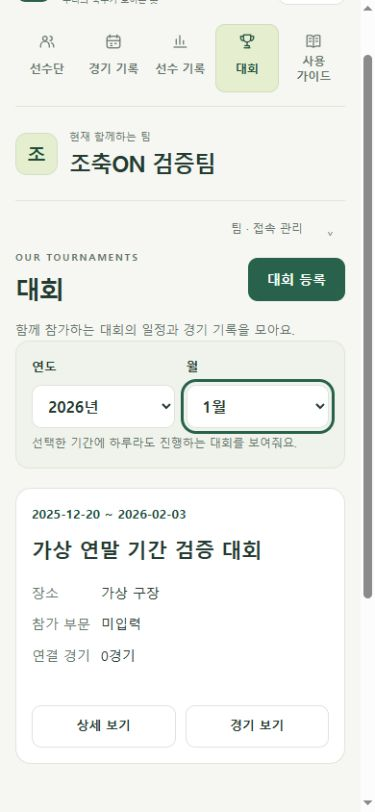
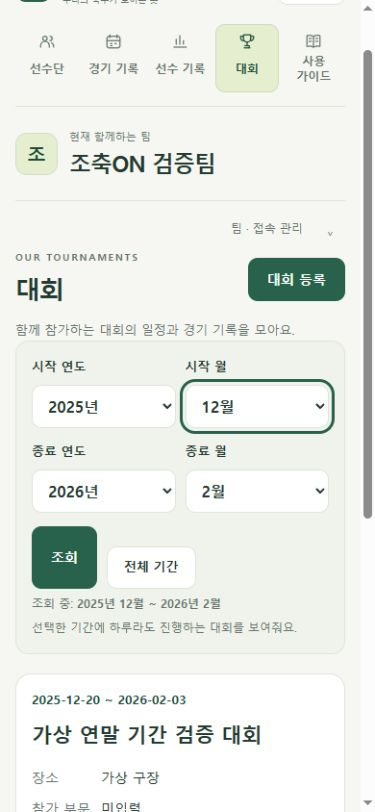
docs: explain month ranges and external match concessions [skip ci]

diff --git a/docs/date-filters-and-table-sorting.md b/docs/date-filters-and-table-sorting.md
@@ -1,4 +1,4 @@
-# 연도·월 조회와 선수 기록 표 정렬
+# 연월 범위 조회와 선수 기록 요약·정렬
 
 2026-10-15 로컬 개발 명세. 운영 앱 `b9d8738`과 가이드 1.1에는 아직 반영하지 않는다.
 
@@ -6,21 +6,32 @@
 
 | 화면 | 날짜 기준 | 기본값 |
 | --- | --- | --- |
-| 경기 기록 | 경기 날짜가 선택한 연도·월 안에 있음 | 전체 연도·전체 월 |
-| 선수 기록·개인 상세 | 실제 경기 날짜로 범위를 정한 뒤 해당 경기의 골·도움·출전·출석 합산 | 한국 시간 올해·전체 월 |
-| 대회 | 대회 시작일~종료일이 선택한 연도·월과 겹침 | 전체 연도·전체 월 |
+| 경기 기록 | 경기 날짜가 시작월 첫날~종료월 마지막 날 안에 있음 | 전체 기간 |
+| 선수 기록·개인 상세 | 같은 기간의 실제 경기 골·도움·출전·출석 합산 | 한국 시간 올해 1월~12월 |
+| 대회 | 대회 시작일~종료일이 조회 기간과 겹침 | 전체 기간 |
 
-- 연도에는 현재 연도와 조회 가능한 자료의 연도를 제공한다. 선택 중인 연도도 유지한다. 대회는 시작~종료 사이에 걸친 연도를 포함한다.
-- 월은 **전체 월 / 1월~12월**이다. 경기·대회 목록에서 전체 연도를 고르면 월도 전체로 돌아가고 월 선택을 잠근다. 먼저 연도를 고르면 월을 선택할 수 있다.
-- 선수 통계는 기존 연간 집계에 월을 더해 좁힌다. 월을 전체로 바꾸면 그해 합계로 돌아간다. 미래 경기 제외, 완료 범위·회원/용병·리그/대회 조건은 그대로 함께 적용한다.
+- 사용자의 정정에 따라 단일 연도/월 UI를 **시작 연도·월 ~ 종료 연도·월 + 조회**로 바꾼다. 예: 2026년3월~6월은 3월1일~6월30일 전체, 2025년12월~2026년2월은 연도를 넘어 합산한다. 같은 시작/종료월은 한 달 조회다.
+- 연도 선택에는 현재·자료·선택 중인 연도와 그 사이 연도를 제공한다. 값만 바꿀 때는 기존 조회를 유지하고 **조회**를 누르면 적용한다. 미완성/역순 입력은 안내하고 이전 결과를 보존한다.
+- 경기·대회는 **전체 기간**, 선수 기록은 **올해** 버튼으로 초기화한다. 선수 기록의 미래 경기 제외, 완료 범위·회원/용병·리그/대회 조건은 함께 유지한다.
 - 대회 기간이 9월20일~10월10일이면 9월과 10월 모두 조회된다. 대회에 연결된 선수 기록은 대회 시작월 대신 실제 경기 날짜로 집계한다.
 - 목록의 현재 페이지에만 적용하지 않고 서버에서 기간을 적용한 뒤 페이지를 나눈다. 조건을 바꾸면 첫 페이지로 돌아간다.
 - 자료가 없으면 빈 결과를 보여 주되 기간 선택은 유지한다. 연도 목록을 불러오지 못하면 오류·재시도를 안내하며 현재/선택 연도는 유지한다.
 - 날짜 필터는 조회 조건이며 저장된 경기 날짜·대회 기간이나 선수 기록을 수정하지 않는다.
 
-스토리보드: **경기 기록 / 선수 기록 / 대회 → 연도 선택 → 전체 월 또는 특정 월 → 기존 경기 구분과 함께 조회**. 선수 상세에서도 같은 기간을 바꿀 수 있고 원본 경기·목록 왕복 시 선택을 유지한다.
+스토리보드: **경기 기록 / 선수 기록 / 대회 → 시작 연월 → 종료 연월 → 조회 → 기존 경기 구분과 함께 결과 확인**. 선수 상세에서도 같은 기간을 바꿀 수 있고 원본 경기·목록 왕복 시 적용한 선택을 유지한다.
 
 [선수 기록 모바일 화면](diagrams/season-period-filter-mobile.png) · [대회 모바일 화면](diagrams/tournament-period-filter-mobile.png). 가상 팀·선수·대회만 사용한 로컬 확인 화면이다.
+
+## 선수 기록 상단 요약
+
+사용자가 확정한 기준은 **집계 경기 / 누적 득점 / 누적 실점**이다. 합산 출전 쿼터 카드는 제거하되 선수 표와 개인 상세의 출전 쿼터는 유지한다.
+
+- 집계 경기: 선택한 기간·기록 상태·경기 구분의 전체 경기 수와 **매칭 N회 · 자체전 N회**를 표시한다. 대회 경기도 매칭(외부 팀과의 경기)에 포함한다.
+- 누적 득점: 선택된 회원/용병 범위의 선수 득점을 기존 방식으로 합산한다. 매칭과 자체전을 모두 포함하며 리그/대회·경기 유형 필터로 좁힌 범위 안에서 계산한다. 팀 스코어로 변경하지 않는다.
+- 누적 실점: 같은 기간·경기 조건의 외부 경기 `scoreAgainst`만 합산한다. **매칭만 집계**를 카드에 명시한다. 선수 행 수·참석/출전 수에 의해 중복 계산하지 않으며 회원/용병 표시 선택은 팀 실점에 영향을 주지 않는다.
+- 자체전은 실점에서 제외한다. 외부 경기의 실점 미입력도 0실점으로 취급하지 않고 제외 횟수를 안내한다. 유효한 외부 스코어가 없으면 `—`, 실제 0실점이면 `0`이다.
+
+[모바일 집계 카드 확인](diagrams/season-summary-mobile.png). 가상 자료이며 조회 범위에 따라 횟수와 합계가 함께 바뀐다.
 
 ## 선수 기록 표 정렬
 
@@ -36,8 +47,8 @@
 
 ## API·가이드·검증
 
-목록 API의 `year`/`month`는 선택이다. 경기·대회 목록의 월만 지정한 요청, 1~12 밖의 월, 1000~9999 밖의 연도는 거부한다. 통계는 기존 year 생략 시 현재연도 규칙을 유지한다. 기간·팀 권한·다른 조회 조건을 동시에 적용한다. DB 마이그레이션은 필요하지 않다.
+새 UI는 `startMonth=2026-03&endMonth=2026-06`처럼 YYYY-MM 쌍을 보낸다. 1000-01~9999-12 범위, 양끝 포함이며 누락·형식 오류·역순·기존 year/month와 혼합한 요청은 거부한다. 둘 다 생략하면 기존 year/month 호환 계약을 유지한다. 기간·팀 권한·다른 조회 조건을 동시에 적용한다. DB 마이그레이션은 필요하지 않다.
 
 회원·운영진 모두 기간 필터·표 정렬 사용법의 가이드 갱신 대상이다. [가이드 대기 목록](guides/maintenance.json)에 기록하고 기능 배포 때 공통 원고·HTML·PDF·앱 안내를 함께 갱신한다. 이번에는 개발 문서와 그림만 갱신한다.
 
-검증은 월말·연말·윤년 경계, 대회 기간 걸침, 목록과 개인 합계 일치, 월 해제, 빈 결과, 팀 격리, 정렬 동률·미지정·쿼터당 분모를 포함한다. 실제 수행 결과와 미검증 범위는 [검증 기록](verification.md)을 따른다.
+검증은 월말·연말·윤년 경계, 대회 기간 걸침, 목록과 개인 합계 일치, 기간 초기화, 빈 결과, 팀 격리, 정렬 동률·미지정·쿼터당 분모와 자체전 실점 제외를 포함한다. 실제 수행 결과와 미검증 범위는 [검증 기록](verification.md)을 따른다.

diff --git a/docs/verification.md b/docs/verification.md
@@ -1,5 +1,15 @@
 # 조축ON 검증 기록
 
+## 시작·종료 연월 범위와 매칭·자체전 요약 (2026-10-15 · 로컬)
+
+- 경기 기록·선수 기록 목록/개인 상세·대회를 시작 연월~종료 연월로 조회하도록 바꿨다. 선택 후 **조회**로 적용하고 미완성·역순이면 기존 결과를 유지한다. 집계 경기 아래 매칭/자체전 횟수, 기존 선수 득점 합산, 외부 경기만의 누적 실점을 표시한다. 실점 미입력과 자체전은 제외하며 실제 0과 집계 불가 `—`를 구분한다.
+- 프론트 **207/207**, Java 단위/API **421/421**, 격리된 native MySQL 8.4.11 기간·요약 통합 **5/5** 통과. 실패·오류·건너뜀 0, TypeScript/Vite 및 bootJar 성공을 로그·XML·JAR 해시로 확인했다. JS 541.22kB 번들 경고는 남아 있다. 최신 전체 Docker/Testcontainers 회귀와 GitHub CI는 실행하지 않았다.
+- MySQL 통합은 `work/calendar-period-qa` 복제본의 연결부만 바꿔 실행별 새 스키마에서 수행했다. 시작/종료월 경계·연도 넘김·윤년·기간 적용 후 DB 페이지·대회 기간 겹침·팀 격리·미래 경기 제외·목록과 개인 합계 일치·구 year/month 호환을 검증했다. 외부 경기 0실점/미입력/자체전 제외, 선수 행 조인으로 인한 중복 합산 방지, 전체 경기=외부+자체전도 검증했다.
+- 가상 브라우저에서 2026년9~10월은 **3경기(매칭2·자체전1), 8골, 실점3골**, 2025년9월~2026년10월은 **4경기(매칭2·자체전2), 9골, 실점3골**이었다. 2026년9월 자체전만 조회하면 1경기/1골/실점 `—`, 3~6월은 0경기/0골/실점 `—`다. 기간 선택만으로 결과가 바뀌지 않으며 역순 조회에도 앞선 결과를 유지했다.
+- 개인 상세의 9~10월 3골·1도움·6쿼터·3경기와 목록 합계가 같고 목록 복귀 시 기간이 유지됐다. 경기 목록의 9월 경기 열기/닫기 후 기간 유지, 연말~연초 대회의 기간 겹침·3~6월 빈 결과·전체 기간 초기화를 확인했다. 실제 선수·경기·대회는 시험 수정하지 않았다.
+- 320px 선수 기록·대회 페이지 가로 넘침 없음, 390px 기간 선택과 요약 카드 가독성을 확인했다. 실제 iPhone Safari·터치·부하 검사는 하지 않았다. [기간 선택](diagrams/season-period-filter-mobile.png) · [집계 카드](diagrams/season-summary-mobile.png) · [대회 기간](diagrams/tournament-period-filter-mobile.png).
+- 흐름도 2개·생성 소스·개발 문서와 회원/운영진 가이드 갱신 대기를 함께 정리했다. 운영 앱 `b9d8738`/DB V23/가이드1.1은 유지하며 이번 변경에 추가 DB 마이그레이션은 없다. 앱 소스 push·운영 배포는 하지 않고 문서·그림만 별도로 GitHub에 반영한다. [명세](date-filters-and-table-sorting.md).
+
 ## 연도·월 조회와 표 제목 정렬 (2026-10-15 · 로컬)
 
 - 경기 기록·선수 기록 목록/개인 상세·대회에 연도/월을 추가했다. 경기 날짜 기준과 대회 기간 겹침 기준을 구분하고 DB에서 필터 후 페이지를 나눈다. 표의 등번호·선수를 분리하고 전체 9개 열 제목에 양방향 정렬·현재 방향·키보드 조작을 추가했다.

diff --git a/docs/player-season-detail.md b/docs/player-season-detail.md
@@ -6,7 +6,7 @@
 
 시즌 합계만으로는 어느 경기의 기록인지 대조하기 어렵다. 선수 기록에서 이름·등번호를 눌러 개인 합계와 경기별 기록을 확인하고 원본 경기의 투표·출석·스쿼드·결과를 읽는다. 회원과 감독·코치 모두 같은 조회 흐름을 사용한다.
 
-- 시즌 목록에서 선택한 연도·월·경기 유형·리그/대회·기록 범위·용병 포함 조건을 상세에도 그대로 적용한다. 상세 상단에서도 연도·월·리그·대회·특정 대회를 바로 바꿀 수 있고 목록으로 돌아가도 새 조건을 유지한다. 리그는 자체전을 포함한다. 월을 전체로 바꾸면 그해 합계로 돌아간다.
+- 시즌 목록에서 선택한 시작 연월~종료 연월·경기 유형·리그/대회·기록 범위·용병 포함 조건을 상세에도 그대로 적용한다. 상세에서도 기간을 바꾸고 조회할 수 있으며 목록으로 돌아가도 적용한 조건을 유지한다. 리그는 자체전을 포함한다. 올해 버튼은 올해1월~12월로 돌아간다.
 - 개인 요약은 해당 범위 전체의 득점·도움·출전 경기·출전 쿼터·실제 참석이다. 현재 상세 페이지의 합계가 아니다.
 - 상세에는 참석/지각 또는 실제 출전이 있는 경기만 표시한다. 참석했지만 뛰지 않은 경기는 출전 0으로 구분한다.
 - 경기별 카드는 날짜·시간·상대/자체전·스코어·작성 상태와 해당 선수의 실제 득점·도움·쿼터·출석을 보여 준다. 상단 누적/1~4쿼터당 선택과 관계없이 원래 득점·도움을 표시하며 프리킥·페널티킥은 각 값이 양수일 때만 표시한다. 경기 날짜 내림차순, 같은 날짜는 등록 ID 내림차순으로 10개씩 조회한다. 조건 변경 시 첫 페이지로 돌아간다.
@@ -16,7 +16,7 @@
 ## 화면 흐름
 
 1. **선수 기록**에서 원하는 범위를 고른다. 표의 열 제목은 양방향 정렬, 본문의 선수 이름·등번호는 개인 상세다.
-2. 상세 상단에서 연도·월·경기 구분을 변경하거나 누적/1~4쿼터당 보기를 선택한다. 경기별 실제 카드를 읽고 필요하면 이전/다음 페이지를 선택한다.
+2. 상세 상단에서 시작 연월·종료 연월을 고른 뒤 조회하거나 경기 구분·누적/1~4쿼터당 보기를 선택한다. 경기별 실제 카드를 읽고 필요하면 이전/다음 페이지를 선택한다.
 3. 카드의 **원본 경기 보기**를 눌러 저장된 01~04 내용을 확인한다.
 4. **선수 기록으로**를 눌러 같은 선수의 상세로 돌아간다.
 5. **시즌 목록으로**를 눌러 원래 목록으로 돌아간다.

diff --git a/docs/api.md b/docs/api.md
@@ -1,5 +1,15 @@
 # 현재 API
 
+## 연월 범위와 경기 유형별 요약 (2026-10-15 후속 · 로컬)
+
+경기·대회 목록과 선수 기록 목록/개인 상세는 `startMonth=2026-03&endMonth=2026-06`처럼 YYYY-MM 쌍을 받는다. 시작월 첫날부터 종료월 마지막 날까지 포함한다. 둘 다 생략하면 아래의 기존 year/month 규칙이 유지되고, 한쪽만 지정·형식 오류·역순·year/month와 혼합하면 400이다. 허용 범위는 1000-01~9999-12이며 연도 걸침·같은 달 조회를 지원한다. 대회는 기간 겹침, 경기는 경기 날짜 기준으로 필터 후 DB 페이징한다. 선수 통계의 오늘 이후 경기 제외와 기간에 무관한 availableYears를 유지한다.
+
+통계 목록과 개인 상세 응답에 `startMonth`, `endMonth`를 추가한다(기존 방식이면 null). 범위 조회에서 기존 `year`는 시작 연도이며 조회 기간을 제한하는 추가 조건이 아니다. 새 화면은 기존 year/month와 범위를 동시에 보내지 않는다.
+
+통계 목록의 `externalMatchCount`/`internalMatchCount`는 각각 매칭/자체전 횟수이고 합은 matchCount다. `goalsAgainst`는 외부 경기 scoreAgainst의 합이며 집계 가능한 값이 없으면 null이다. `scoredExternalMatchCount`와 `missingExternalScoreCount`는 입력/미입력 외부 경기 수이고 합은 externalMatchCount다. `excludedInternalMatchCount`는 internalMatchCount와 같다. 이 필드들은 같은 기간·팀·경기 유형·완료 상태·대회 조건으로 경기마다 한 번만 계산한다. includeGuests는 선수 득점 범위에만 영향을 주고 팀 실점에는 영향이 없다. 개인 상세에 팀 실점 필드는 넣지 않는다.
+
+[현재 화면 기준과 인수 조건](date-filters-and-table-sorting.md). 아래 단일 연도/월 계약은 구버전 요청 호환용으로 남긴다.
+
 ## 연도·월 조회 (2026-10-15 · 로컬 개발 / 운영 미반영)
 
 - `GET /api/v1/matches?year=2026&month=10`: 경기 날짜로 필터링한 뒤 기존 페이지·경기 구분을 적용한다. `year` 생략은 전체 기간, `month` 생략은 해당 연도 전체다.

diff --git a/docs/player-input-and-stat-details.md b/docs/player-input-and-stat-details.md
@@ -42,7 +42,7 @@
 - N쿼터당 = 선택 범위의 스탯 합계 ÷ 실제 출전 쿼터 합계 × N. 시즌 목록과 개인 상단 합계의 총 골·도움·FK·PK에 적용한다.
 - 예: 2.5쿼터 동안 2골·1도움이면 1쿼터당 0.80골·0.40도움, 4쿼터당 3.20골·1.60도움이다. 경기별 평균을 다시 평균 내지 않는다.
 - 출전 쿼터가 0이면 평균을 `—`로 표시한다. 소수점 둘째 자리 표시는 마지막에만 반올림하고 정렬은 반올림 전 값으로 계산한다. 출전 경기·출전 쿼터·출석은 계속 누적값이다.
-- 연도·월과 리그/대회/특정 대회, 완료 범위, 용병 조건을 먼저 적용하고 계산한다. 전체 월이면 해당 연도 전체다.
+- 시작 연월~종료 연월과 리그/대회/특정 대회, 완료 범위, 용병 조건을 먼저 적용하고 계산한다. 범위는 시작월 첫날부터 종료월 마지막 날까지이며 연도를 넘길 수 있다.
 - 목록과 개인 상세에서 같은 연도·경기 구분을 직접 변경할 수 있다. 자체전은 리그에 포함하고 기본 합산에도 포함한다. 경기별 배지는 자체전으로 유지한다. 조건 변경 시 상세 첫 페이지부터 조회하고 원본·목록 왕복에도 최신 조건을 유지한다.
 - **개인 상세 아래 경기별 기록은 보기 선택과 관계없이 해당 경기의 실제 득점·도움 정수만 표시한다.** 프리킥·페널티킥은 각각 1골 이상일 때만 전체 이름과 골 수를 덧붙인다. 0 또는 예전 응답의 누락값은 해당 세부 문구를 표시하지 않는다. 실제 출전 쿼터·출석·원본 연결은 유지한다.
 - **4쿼터를 실제 1경기 또는 프로 90분으로 환산하지 않는다.** 쿼터 길이도 추가 저장하지 않는다. 프로 선수 비교는 나중에 별도 기능으로 설계한다.

diff --git a/docs/tournaments-and-completion-review.md b/docs/tournaments-and-completion-review.md
@@ -15,7 +15,7 @@
 
 ## 리그·대회 필터와 연도별 대회 등록 (2026-10-15 후속)
 
-- 후속 [연도·월 조회](date-filters-and-table-sorting.md): 경기 기록·선수 기록은 실제 경기 날짜로, 대회 목록은 시작~종료 기간의 겹침으로 조회한다. 예를 들어 12월~다음 해 2월 대회는 두 연도와 세 달 모두에서 찾을 수 있다. 월은 전체 또는 1~12월이며 기존 리그/대회 구분과 함께 적용한다.
+- 후속 [연월 범위 조회](date-filters-and-table-sorting.md): 시작 연월~종료 연월을 선택한 뒤 조회한다. 경기 기록·선수 기록은 실제 경기 날짜로, 대회 목록은 기간 겹침으로 조회한다. 예를 들어 12월~다음 해2월 대회를 1월~3월 범위로 찾을 수 있다. 기존 리그/대회 구분과 함께 적용한다.
 
 - 매주 정기 경기와 자체전은 리그, 등록한 봄·가을 대회와 K7 같은 공식 대회는 대회로 묶는다. 공식 명칭에 ‘리그’가 있어도 앱의 정기 경기 분류와 혼동하지 않는다.
 - 대회는 참가 연도별로 따로 등록한다. `2026 봄대회`, `2026 가을대회`, `2027 K7`은 이름 예시이며 실제 일정과 등록 자료를 생성하지 않는다. 현재 대회 이름·시작/종료일·장소·참가 부문·메모를 그대로 사용한다. 반복 일정이나 자동 연도 복제는 이번 범위가 아니다.

diff --git a/docs/roadmap.md b/docs/roadmap.md
@@ -1,5 +1,15 @@
 # 단계별 로드맵
 
+## 연월 범위·매칭/자체전 요약 (2026-10-15 후속 · 로컬)
+
+- [x] 단일 연도/월 UI를 시작 연월~종료 연월 + 조회 방식으로 정정. 연도 걸침·같은 달·역순 안내·적용 전 결과 유지
+- [x] 집계 경기 카드에 매칭/자체전 횟수, 누적 득점에 두 유형 합산, 누적 실점에 매칭만 집계 표시
+- [x] 실점은 외부 경기 scoreAgainst로 경기당 한 번 합산. 미입력/자체전 제외 안내와 0실점/집계 불가 구분
+- [ ] 사용자 로컬 확인과 실제 아이폰 검증 후 별도 배포
+- [명세와 사용자 확정 정책](date-filters-and-table-sorting.md) · [실제 검증 기록](verification.md)
+
+아래 단일 연도/월 구현 항목은 이 범위 조회로 대체한다. 기존 API 요청은 호환을 유지한다.
+
 ## 연도·월 조회와 표 정렬 (2026-10-15 · 로컬 개발 / 운영 미반영)
 
 - [x] 경기 기록·선수 기록·개인 상세·대회에 연도/월 필터. 경기 날짜 집계와 대회 기간 겹침을 구분하고 서버 페이지에도 적용

diff --git a/README.md b/README.md
@@ -1,6 +1,6 @@
 # 조축ON
 
-[로컬 개발: 연도·월 조회와 표 정렬](docs/date-filters-and-table-sorting.md) — 경기·선수 기록·대회의 기간 조회, 선수 기록 열 제목의 양방향 정렬을 추가합니다. 운영 배포는 별도입니다.
+[로컬 개발: 연월 범위와 경기 요약·표 정렬](docs/date-filters-and-table-sorting.md) — 시작 연월~종료 연월 조회, 매칭·자체전 횟수와 누적 득점·매칭 실점, 선수 기록 열 제목의 양방향 정렬을 지원합니다. 운영 배포는 별도입니다.
 
 [로컬 구현: 대회 관리와 경기 완료 전 점검](docs/tournaments-and-completion-review.md) · [업무 흐름도](docs/diagrams/tournaments-and-completion-review.svg) · [그림 생성 원본](scripts/Generate-TournamentWorkflow.mjs) — 연도별 대회 등록·경기 연결, 리그/대회 표시와 합산·리그만·대회만·특정 대회 조회를 지원합니다. 운영 앱과 가이드에는 아직 반영하지 않았습니다.
 
